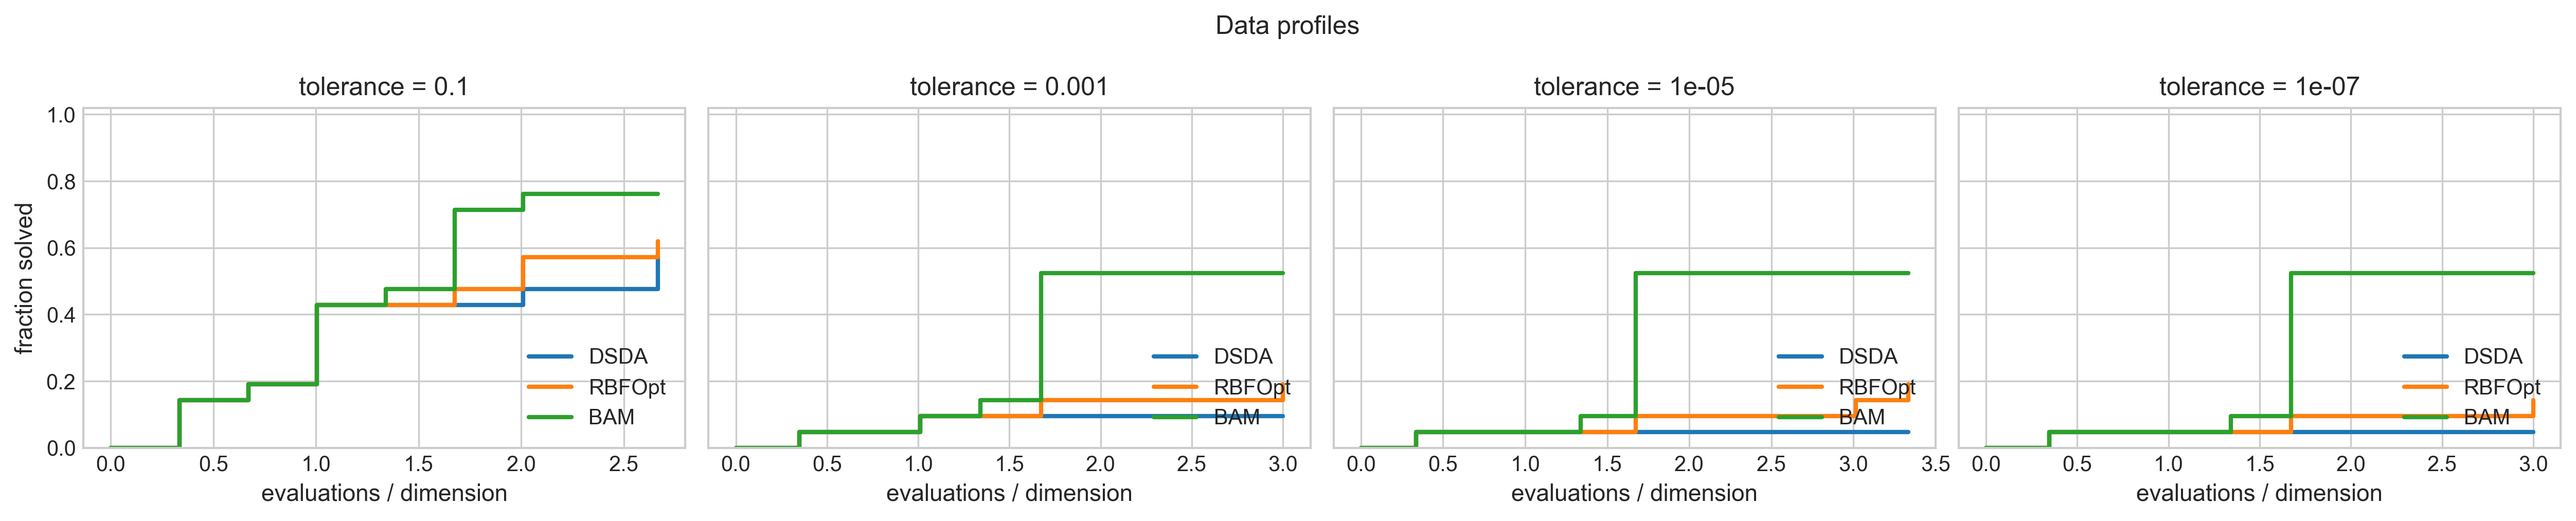
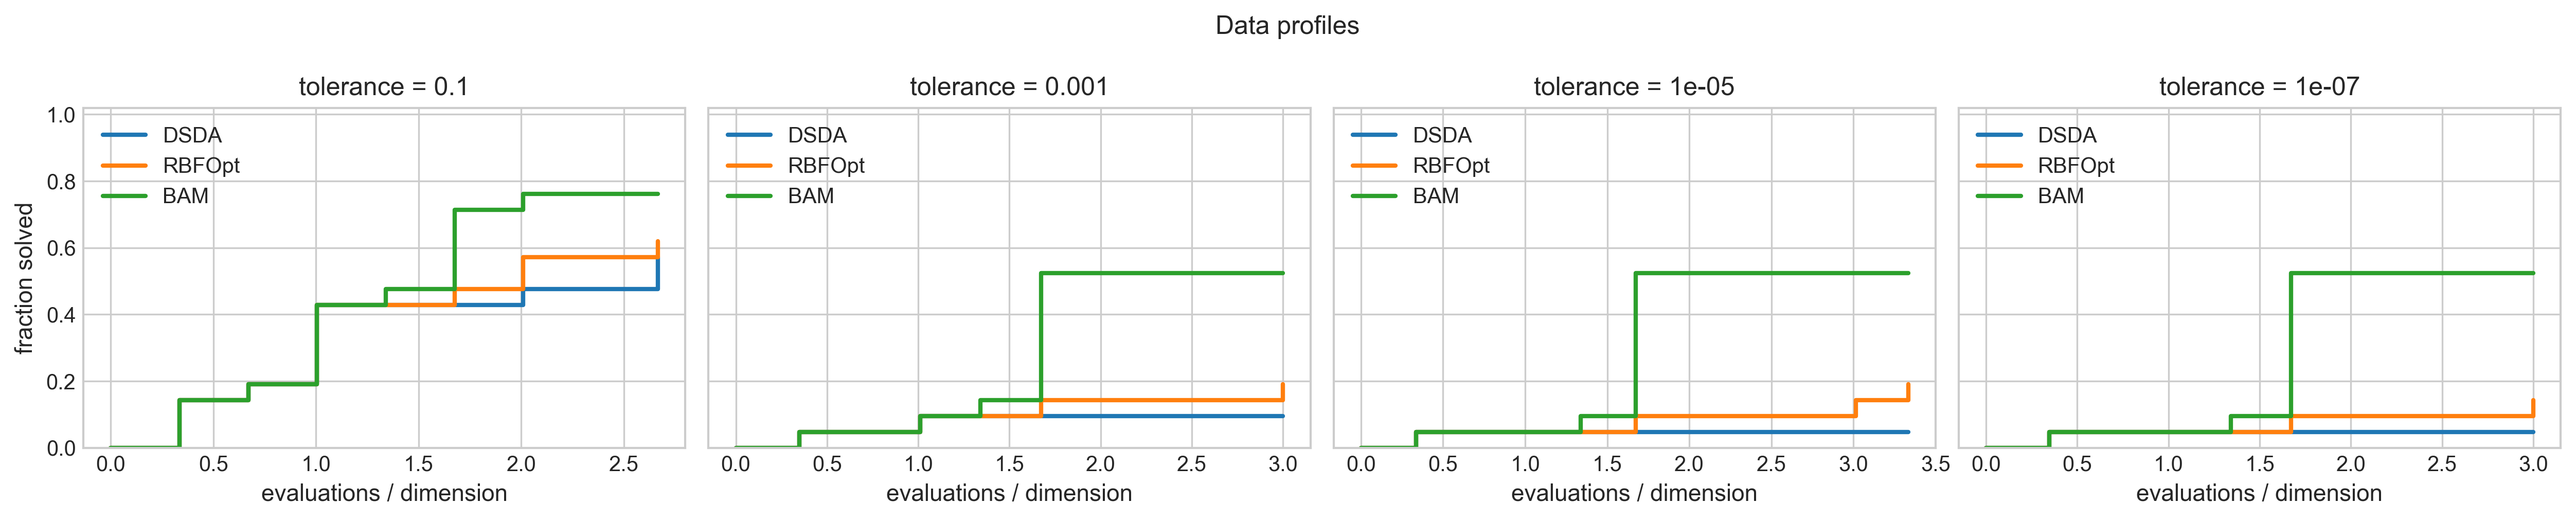
fix: update legend position in data profiles plot and add corresponding test

diff --git a/tests/test_benchmark_analysis.py b/tests/test_benchmark_analysis.py
@@ -378,6 +378,9 @@ def test_three_method_comparisons_include_bam(tmp_path):
         text.get_text() for text in performance_figure.axes[0].get_legend().get_texts()
     } == {"DSDA", "RBFOpt", "BAM"}
 
+    data_profile_figure = benchmark_analysis.plot_data_profiles(results)
+    assert all(axis.get_legend()._loc == 2 for axis in data_profile_figure.axes)
+
     convergence_figure = benchmark_analysis.plot_convergence_curves(
         results,
         grid_name="alpha.csv",

diff --git a/benchmark_analysis.py b/benchmark_analysis.py
@@ -459,7 +459,7 @@ def plot_data_profiles(
         ax.set_ylim(0.0, 1.02)
         handles, _ = ax.get_legend_handles_labels()
         if handles:
-            ax.legend(loc="lower right")
+            ax.legend(loc="upper left")
 
     axes.ravel()[0].set_ylabel("fraction solved")
     fig.suptitle("Data profiles")
